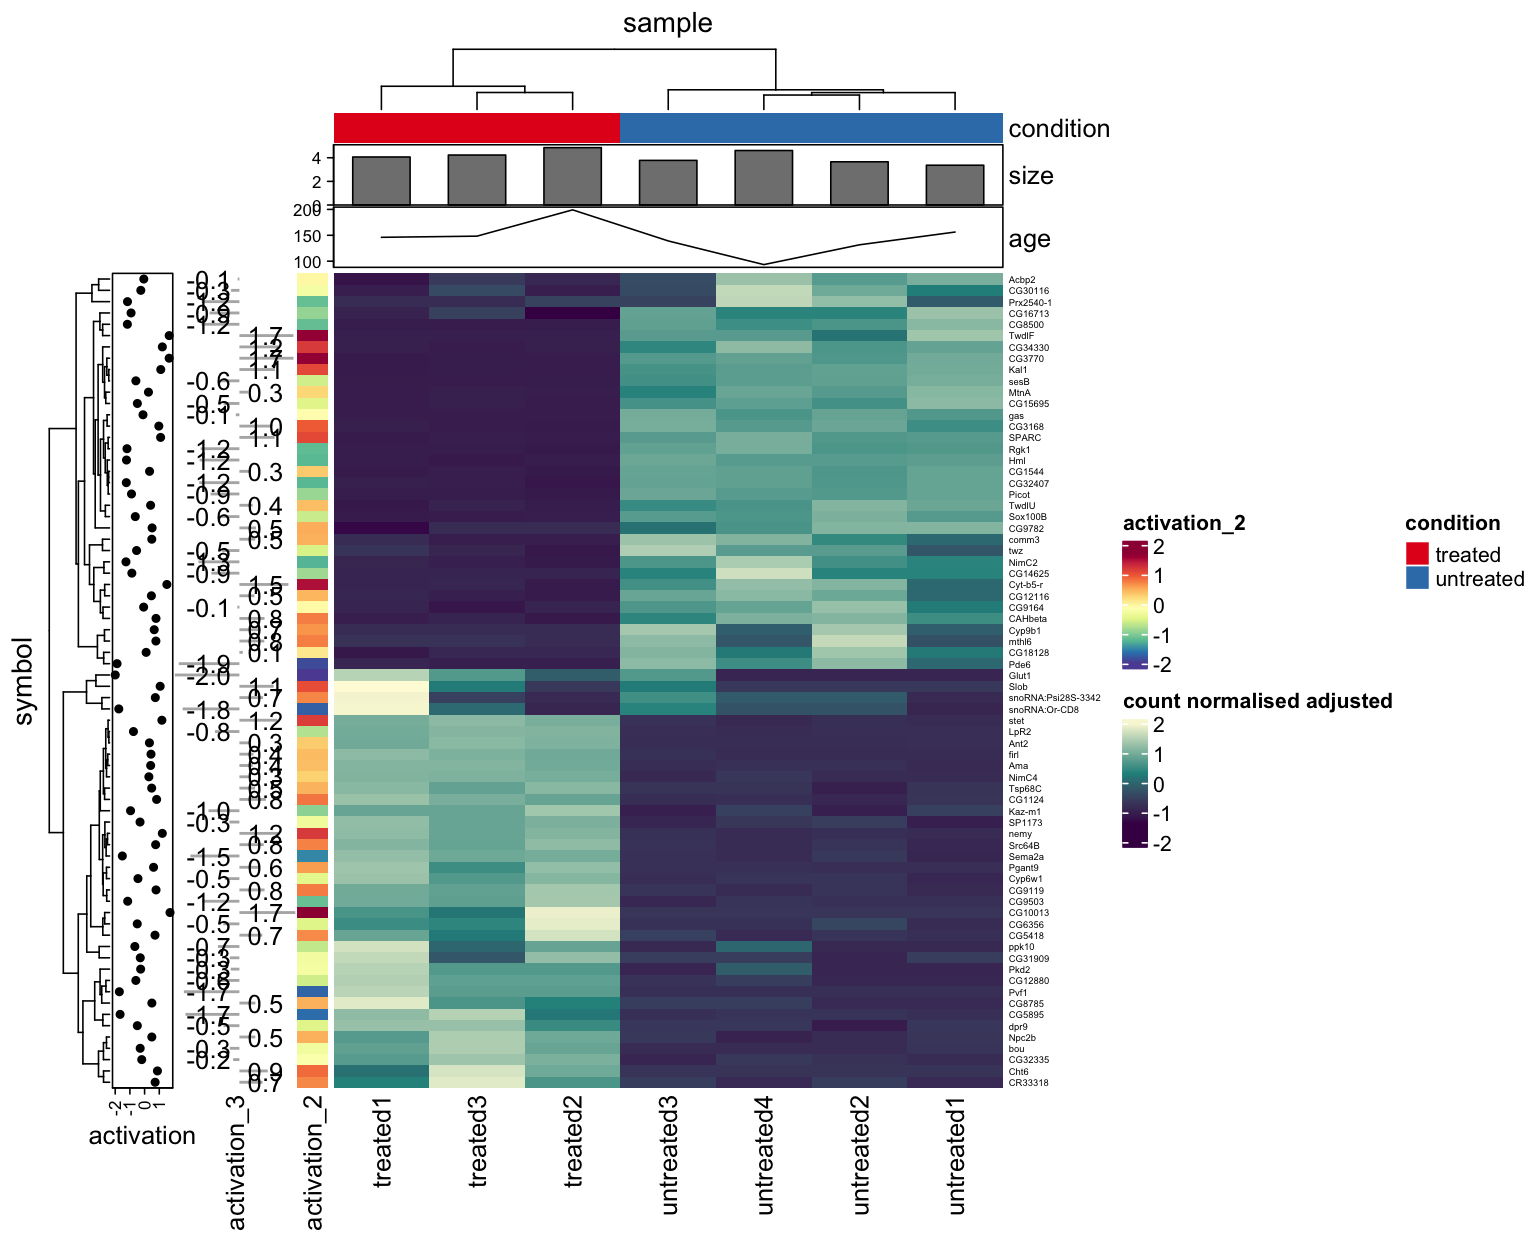
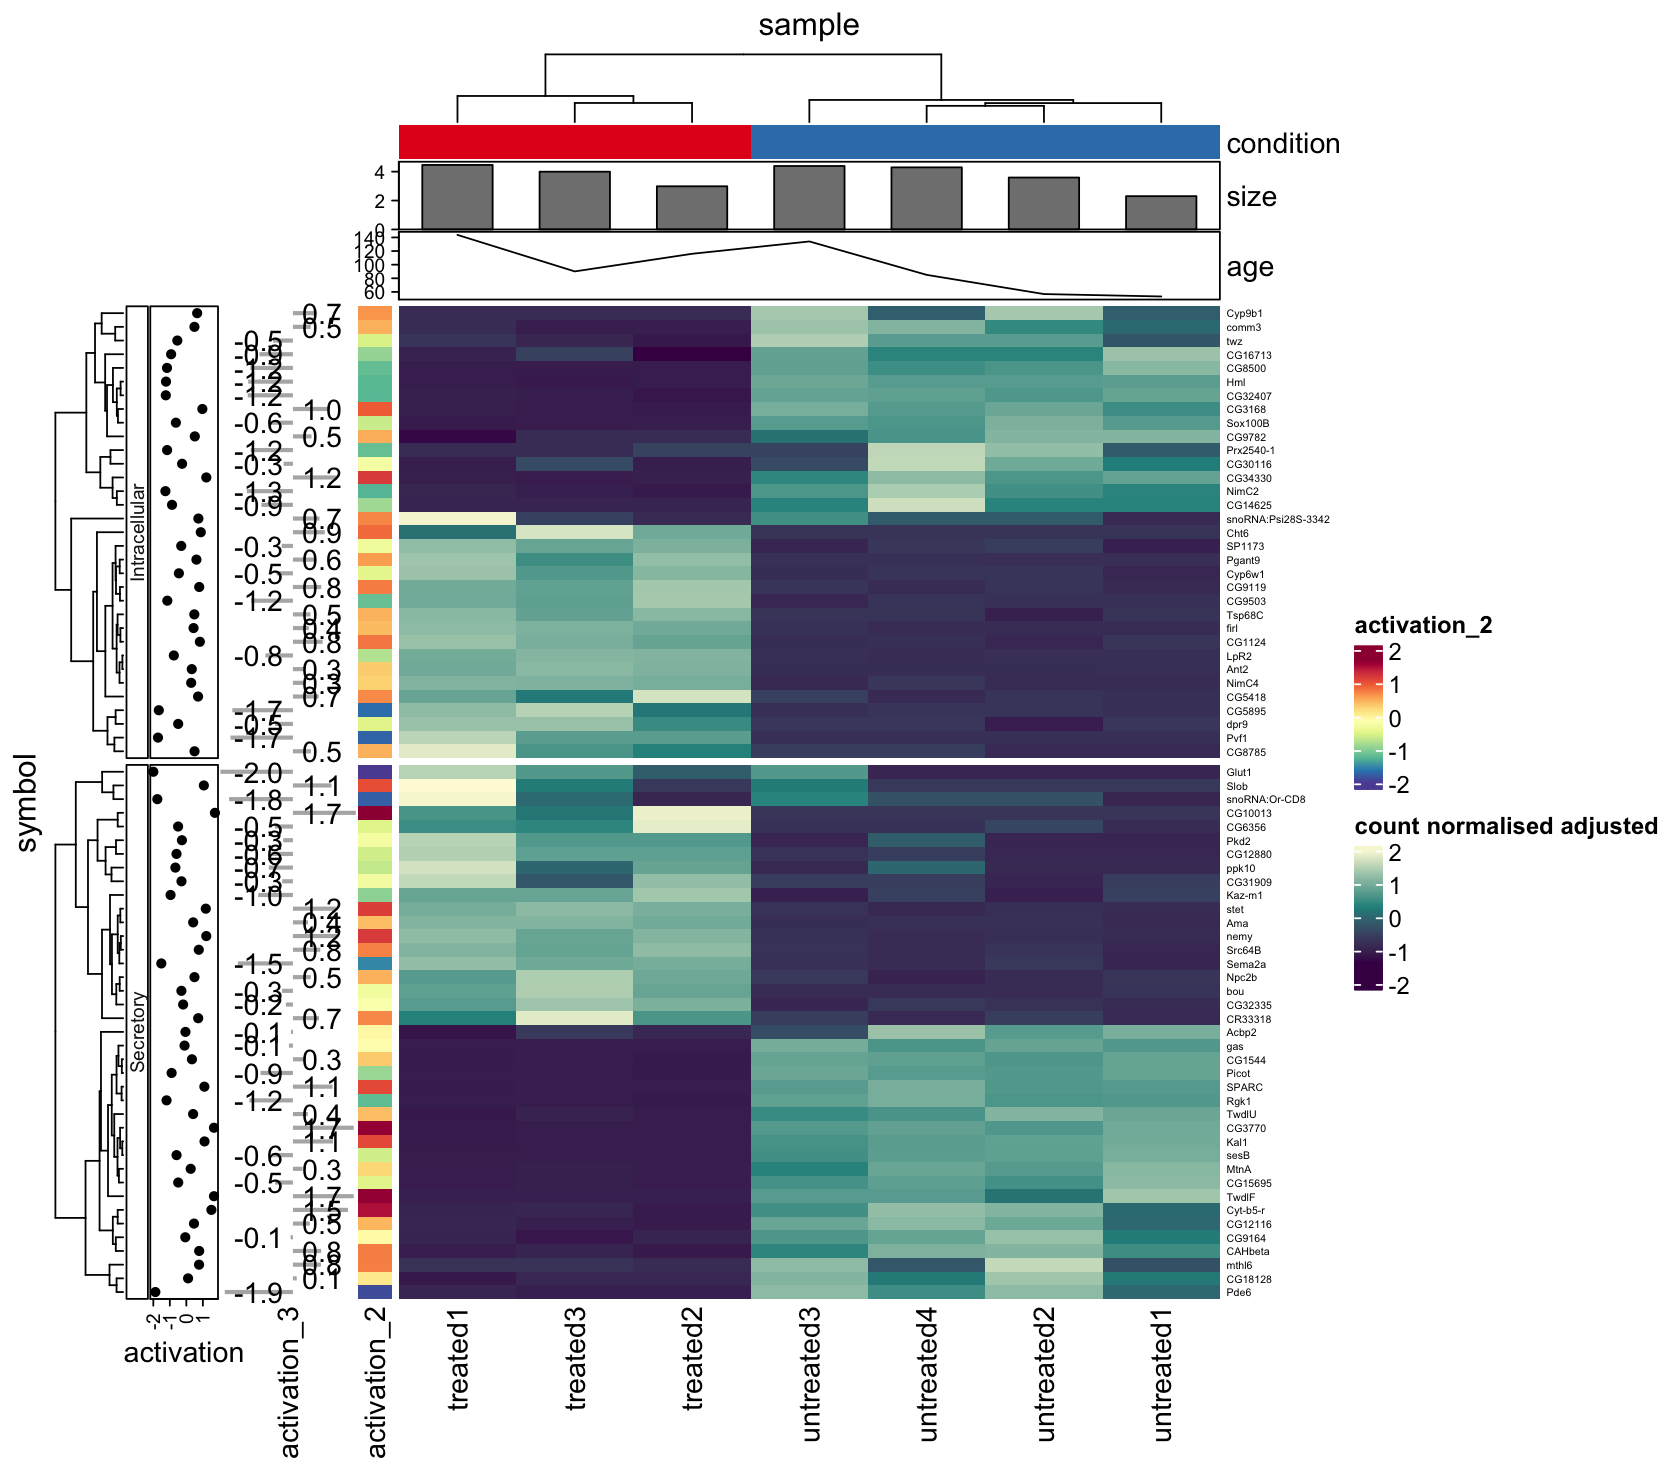
Enhance `annotation_group` documentation and examples
- Updated the `annotation_group` method to include detailed descriptions of parameters and usage.
- Added examples demonstrating basic usage, custom colors, and multiple grouping variables.
- Revised the README to reflect the new functionality and improved aesthetics in heatmap plotting.
- Updated documentation references to include relevant sources and enhance clarity.

diff --git a/README.md b/README.md
@@ -53,6 +53,7 @@ pasilla_plus |>
 		.value = `count normalised adjusted`,	
 		scale = "row"
 	) |>
+	annotation_group(location) |>
 	annotation_tile(condition) |>
 	annotation_point(activation) |>
 	annotation_numeric(activation_3) |>
@@ -117,26 +118,4 @@ If you want to contribute to the software, report issues or problems
 with the software or seek support please open an issue
 [here](https://github.com/stemangiola/tidyHeatmap/issues)
 
-# Example: grouping with annotation_group and custom aesthetics
 
-``` r
-tidyHeatmap::pasilla |>
-  heatmap(
-    .column = sample,
-    .row = symbol,
-    .value = `count normalised adjusted`,
-    scale = "row"
-  ) |>
-  annotation_group(
-    location, type,
-    palette_grouping = list(
-      c("#66C2A5", "#FC8D62"),
-      c("#b58b4c", "#74a6aa")
-    ),
-    group_label_fontsize = 12,
-    show_group_name = TRUE,
-    group_strip_height = grid::unit(15, "pt")
-  ) |>
-  annotation_tile(condition) |>
-  annotation_tile(activation)
-```
